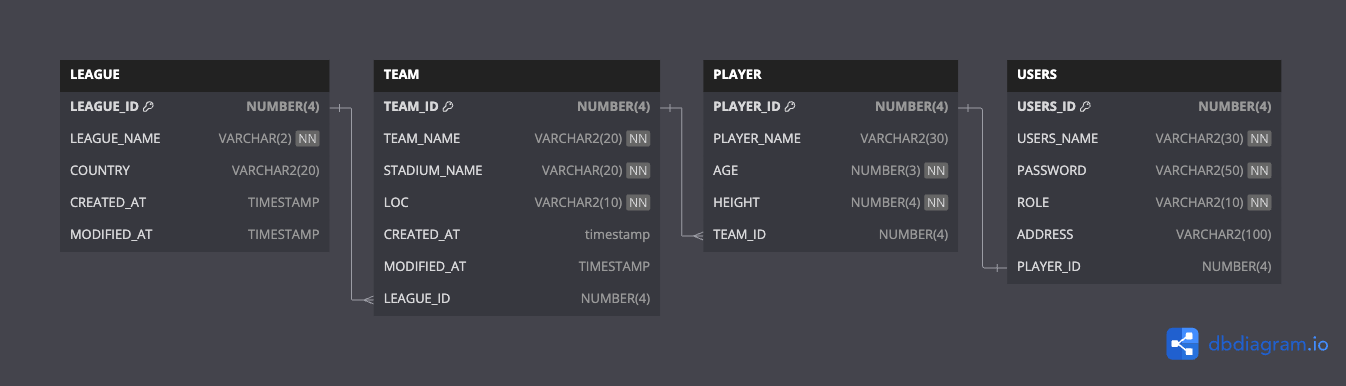
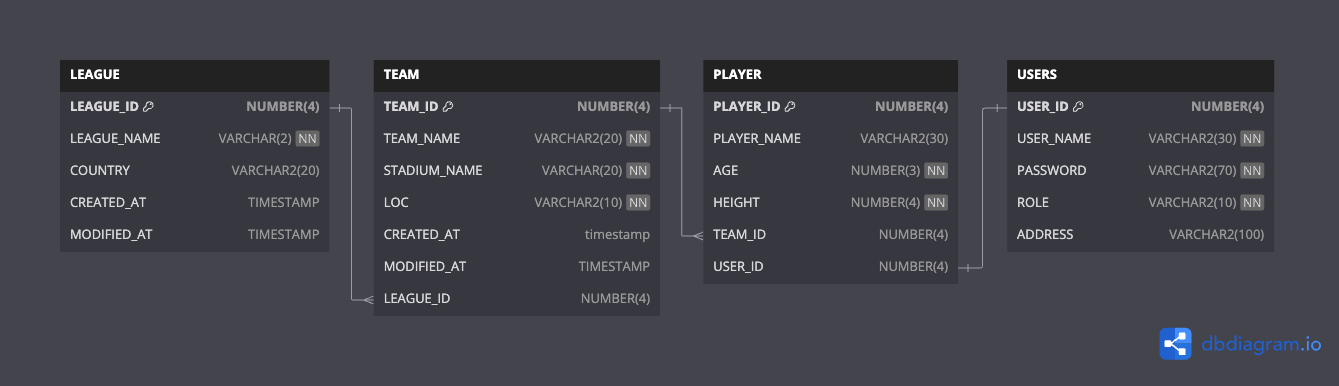
Feat: 회원가입 기능 구현 완료
1. 동일한 아이디를 체크하여 비밀번호 암호화 후 DB 저장
2. 테이블 수정 및 DB-Diagram 수정

diff --git a/src/Main.java b/src/Main.java
@@ -1,5 +1,54 @@
+import domain.Users;
+import service.UsersService;
+
+import java.sql.SQLException;
+import java.util.Scanner;
+
 public class Main {
-    public static void main(String[] args) {
-        System.out.println("Hello world!");
+    public static void main(String[] args) throws SQLException, ClassNotFoundException {
+        Scanner sc = new Scanner(System.in);
+        // 회원가입 테스트
+        System.out.println();
+        String title =
+                """
+                         _______   ______     ______   .___________.   .______        ___       __       __     \s
+                        |   ____| /  __  \\   /  __  \\  |           |   |   _  \\      /   \\     |  |     |  |    \s
+                        |  |__   |  |  |  | |  |  |  | `---|  |----`   |  |_)  |    /  ^  \\    |  |     |  |    \s
+                        |   __|  |  |  |  | |  |  |  |     |  |        |   _  <    /  /_\\  \\   |  |     |  |    \s
+                        |  |     |  `--'  | |  `--'  |     |  |        |  |_)  |  /  _____  \\  |  `----.|  `----.
+                        |__|      \\______/   \\______/      |__|        |______/  /__/     \\__\\ |_______||_______|
+                                                                                                                \s
+                """;
+        System.out.println(title);
+
+        while(true){
+            System.out.println("==== 메뉴를 선택해주세요 ====");
+            System.out.println("1. 회원가입");
+            System.out.println("2. 종료");
+
+            String select = sc.nextLine();
+
+            switch (select){
+                case "1" -> { // 회원가입
+                    System.out.print("UserName(ID)를 입력하세요 >> ");
+                    String username = sc.nextLine();
+                    System.out.print("PW를 입력하세요 >> ");
+                    String password = sc.nextLine();
+                    System.out.print("ROLW 입력하세요(Admin or Player) >> ");
+                    String role = sc.nextLine();
+                    System.out.print("주소를 입력하세요 >> ");
+                    String address = sc.nextLine();
+
+                    Users users = new Users(username, password, role, address);
+                    int result = UsersService.join(users);
+                    if(result > 0) System.out.println("회원가입에 성공하셨습니다.");
+                    else System.out.println("회원가입에 실패하셨습니다!");
+                }
+            }
+            if(select.equals("2")){
+                break;
+            }
+        }
+        System.out.println("프로그램이 종료되었습니다");
     }
 }

diff --git a/src/service/UsersService.java b/src/service/UsersService.java
@@ -1,0 +1,57 @@
+package service;
+
+import domain.Users;
+import org.mindrot.jbcrypt.BCrypt;
+import util.DBConnectionUtil;
+
+import java.sql.Connection;
+import java.sql.PreparedStatement;
+import java.sql.ResultSet;
+import java.sql.SQLException;
+
+public class UsersService {
+    /* 회원가입 메서드
+    1. 동일한 아이디가 있는지 체크해야 한다
+    2. 동일한 아이디가 있다면 경고창을 출력하고 return
+    3. 비밀번호 암호화 -> BC
+    3. 동일한 아이디가 없다면 회원가입 로직을 날리고 성공했다고 반환
+     */
+    public static int join(Users user) throws ClassNotFoundException, SQLException {
+        Connection con = null;
+        PreparedStatement pstmt = null;
+        ResultSet rs = null;
+
+        Class.forName("oracle.jdbc.driver.OracleDriver");
+        con = DBConnectionUtil.getConnection();
+
+        // 1. 동일한 아이디 체크
+        String checkSql = "SELECT USER_NAME FROM USERS WHERE USER_NAME = ?";
+        pstmt = con.prepareStatement(checkSql);
+
+        pstmt.setString(1, user.getUsername());
+        rs = pstmt.executeQuery();
+        if (rs.next()) {
+            String findUsername = rs.getString("USER_NAME");
+            if (!findUsername.isEmpty()) {
+                System.out.println("이미 회원가입이 된 유저입니다.");
+                return -1;
+            }
+        }
+
+        // 2. 비밀번호 암호화
+        String encodePW = BCrypt.hashpw(user.getPassword(), BCrypt.gensalt());
+
+        // 3. DB 저장
+        String insertSql = "INSERT INTO USERS VALUES(USERS_SEQ.nextval, ?, ?, ?, ?)";
+
+        pstmt = con.prepareStatement(insertSql);
+        pstmt.setString(1, user.getUsername());
+        pstmt.setString(2, encodePW);
+        pstmt.setString(3, user.getRole());
+        pstmt.setString(4, user.getAddress());
+        int result = pstmt.executeUpdate();
+        DBConnectionUtil.close(con, pstmt, rs);
+
+        return result; // 변경되는 값이 없으면 0 반환
+    }
+}

diff --git a/src/repository/JdbcRepositoryTest.java b/src/repository/JdbcRepositoryTest.java
@@ -5,6 +5,8 @@ import util.DBConnectionUtil;
 import java.sql.*;
 import java.util.Scanner;
 
+import static util.DBConnectionUtil.*;
+
 public class JdbcRepositoryTest {
     public static void main(String[] args) {
         Connection con = null;
@@ -14,7 +16,7 @@ public class JdbcRepositoryTest {
         String sql = "";
         try {
             Class.forName("oracle.jdbc.driver.OracleDriver");
-            con = DBConnectionUtil.getConnection();
+            con = getConnection();
 
             // 데이터 조회
             sql = "SELECT * FROM PLAYER";
@@ -79,32 +81,6 @@ public class JdbcRepositoryTest {
             e.printStackTrace();
         } finally {
             close(con, pstmt, rs);
-        }
-    }
-
-    public static void close(Connection con, PreparedStatement pstmt, ResultSet rs) {
-        if (rs != null) {
-            try {
-                rs.close();
-            } catch (SQLException e) {
-                e.printStackTrace();
-            }
-        }
-
-        if (pstmt != null) {
-            try {
-                pstmt.close();
-            } catch (SQLException e) {
-                e.printStackTrace();
-            }
-        }
-
-        if (con != null) {
-            try {
-                con.close();
-            } catch (SQLException e) {
-                e.printStackTrace();
-            }
         }
     }
 }

diff --git a/src/util/DBConnectionUtil.java b/src/util/DBConnectionUtil.java
@@ -1,8 +1,6 @@
 package util;
 
-import java.sql.Connection;
-import java.sql.DriverManager;
-import java.sql.SQLException;
+import java.sql.*;
 
 import static util.ConnectionConst.*;
 
@@ -13,6 +11,32 @@ public class DBConnectionUtil {
             return connection;
         } catch (SQLException e) {
             throw new RuntimeException(e);
+        }
+    }
+
+    public static void close(Connection con, PreparedStatement pstmt, ResultSet rs) {
+        if (rs != null) {
+            try {
+                rs.close();
+            } catch (SQLException e) {
+                e.printStackTrace();
+            }
+        }
+
+        if (pstmt != null) {
+            try {
+                pstmt.close();
+            } catch (SQLException e) {
+                e.printStackTrace();
+            }
+        }
+
+        if (con != null) {
+            try {
+                con.close();
+            } catch (SQLException e) {
+                e.printStackTrace();
+            }
         }
     }
 }

diff --git a/src/domain/Users.java b/src/domain/Users.java
@@ -1,0 +1,34 @@
+package domain;
+
+public class Users {
+    private String username;
+    private String password;
+    private String role; // admin or player
+    private String address;
+
+    public Users() {
+    }
+
+    public Users(String username, String password, String role, String address) {
+        this.username = username;
+        this.password = password;
+        this.role = role;
+        this.address = address;
+    }
+
+    public String getUsername() {
+        return username;
+    }
+
+    public String getPassword() {
+        return password;
+    }
+
+    public String getRole() {
+        return role;
+    }
+
+    public String getAddress() {
+        return address;
+    }
+}
